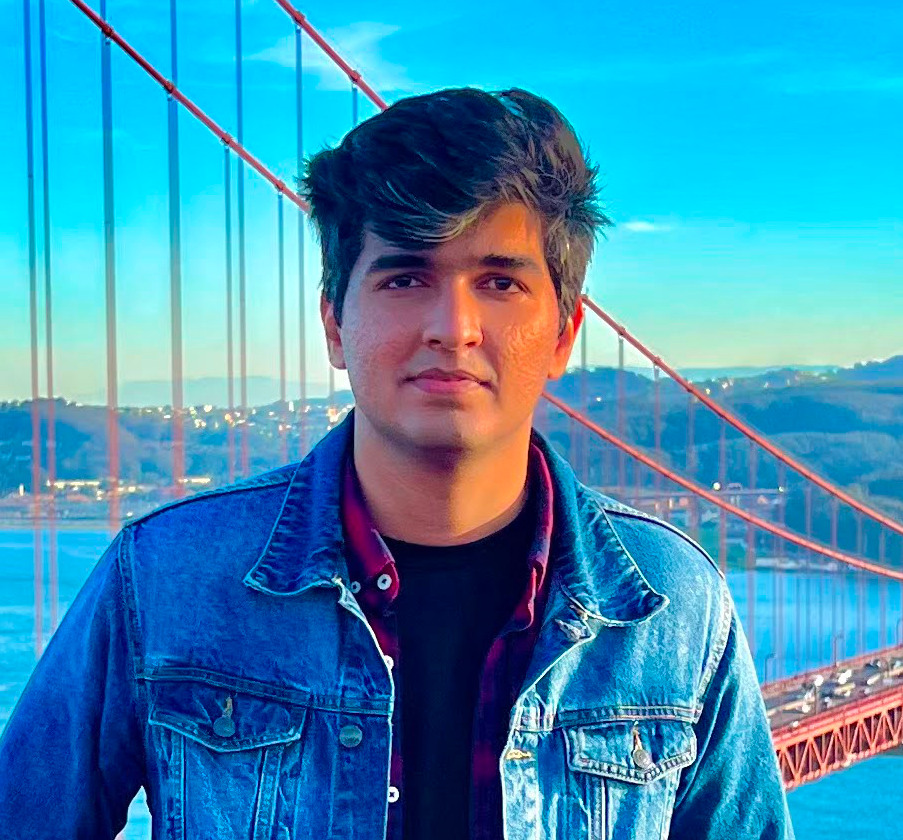
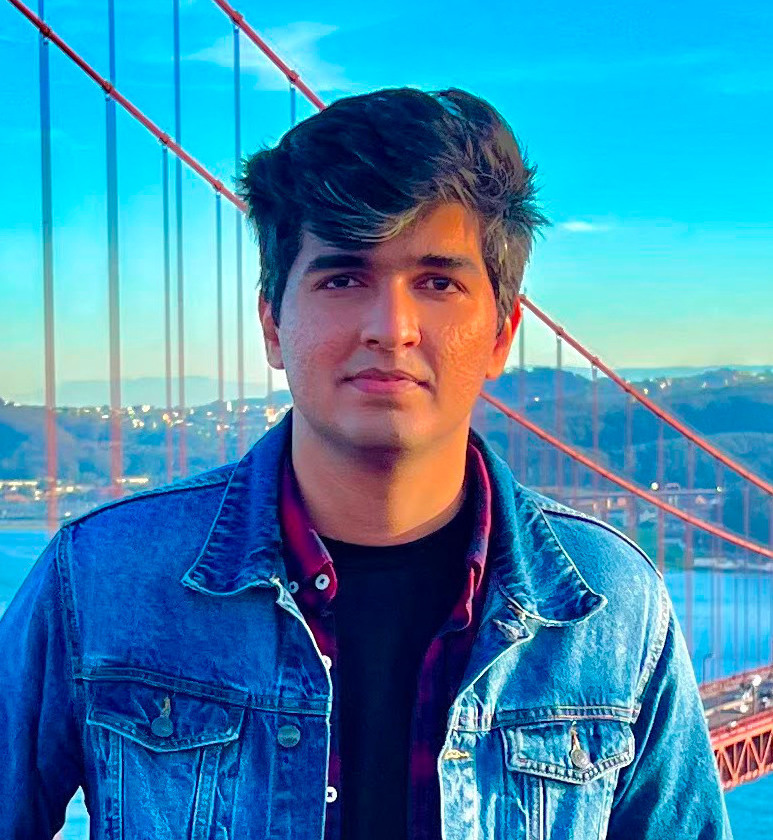
test header

diff --git a/index.md b/index.md
@@ -2,6 +2,8 @@
 layout: archive
 author_profile: true
 classes: wide
+header:
+  image: /assets/images/header.jpg
 ---
 
 I am a Ph.D. student of Computer Science at University of California, Davis, where I am currently being advised by [Professor Zubair Shafiq](https://web.cs.ucdavis.edu/~zubair/index.html). My research interests revolve around making internet private and secure for all netizens through use of modern machine learning and data analytics techniques.
